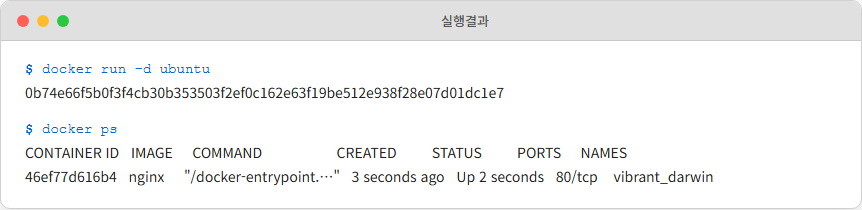
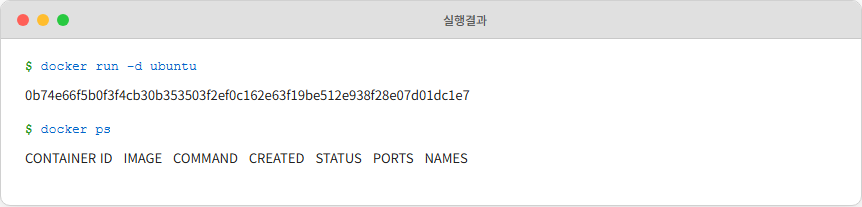
챕터 2 검수

diff --git a/projects/특이점이-온-개발자-도커-쿠버네티스/assets/CH02/chap01-33.html b/projects/특이점이-온-개발자-도커-쿠버네티스/assets/CH02/chap01-33.html
@@ -1,0 +1,84 @@
+<!DOCTYPE html>
+<html>
+<head>
+<meta charset="utf-8">
+<style>
+  @import url('https://fonts.googleapis.com/css2?family=Noto+Sans+KR:wght@400;500&display=swap');
+  html, body { margin: 0; padding: 0; background: transparent; height: auto; }
+  body {
+    padding: 20px;
+    display: inline-block;
+    width: 100%;
+    box-sizing: border-box;
+    font-family: 'Noto Sans KR', 'Apple SD Gothic Neo', 'Malgun Gothic', 'Menlo', 'Monaco', 'Courier New', monospace;
+  }
+  .terminal {
+    width: 860px;
+    margin: 0 auto;
+    border-radius: 10px;
+    overflow: hidden;
+    box-shadow: 0 4px 20px rgba(0,0,0,0.15);
+    border: 1px solid #d0d0d0;
+    background: #ffffff;
+  }
+  .titlebar {
+    background: #e0e0e0;
+    padding: 10px 16px;
+    display: flex;
+    align-items: center;
+    gap: 8px;
+    border-bottom: 1px solid #c8c8c8;
+  }
+  .dot { width: 12px; height: 12px; border-radius: 50%; }
+  .dot.red { background: #ff5f57; }
+  .dot.yellow { background: #ffbd2e; }
+  .dot.green { background: #28c940; }
+  .title {
+    color: #555;
+    font-size: 12px;
+    margin-left: 8px;
+    flex: 1;
+    text-align: center;
+    font-weight: 500;
+  }
+  .body { padding: 20px 24px; }
+  .prompt {
+    color: #0066cc;
+    font-size: 13px;
+    margin-bottom: 10px;
+    word-break: break-all;
+    font-family: 'Menlo', 'Monaco', 'Courier New', monospace;
+  }
+  .prompt::before {
+    content: '$ ';
+    color: #2a9d2a;
+    font-weight: bold;
+  }
+  .output {
+    color: #222222;
+    font-size: 13px;
+    line-height: 1.7;
+    white-space: pre-wrap;
+    word-break: break-all;
+    font-family: 'Noto Sans KR', 'Apple SD Gothic Neo', 'Malgun Gothic', 'Menlo', 'Monaco', 'Courier New', monospace;
+    margin-bottom: 16px;
+  }
+</style>
+</head>
+<body>
+<div class="terminal">
+  <div class="titlebar">
+    <div class="dot red"></div>
+    <div class="dot yellow"></div>
+    <div class="dot green"></div>
+    <div class="title">실행결과</div>
+  </div>
+  <div class="body">
+    <div class="prompt">docker run -d ubuntu</div>
+    <div class="output">0b74e66f5b0f3f4cb30b353503f2ef0c162e63f19be512e938f28e07d01dc1e7</div>
+    <div class="prompt">docker ps</div>
+    <div class="output">CONTAINER ID   IMAGE   COMMAND   CREATED   STATUS   PORTS   NAMES</div>
+  </div>
+</div>
+</body>
+</html>

diff --git a/projects/특이점이-온-개발자-도커-쿠버네티스/assets/CH02/chap01-68.html b/projects/특이점이-온-개발자-도커-쿠버네티스/assets/CH02/chap01-68.html
@@ -1,0 +1,85 @@
+<!DOCTYPE html>
+<html>
+<head>
+<meta charset="utf-8">
+<style>
+  @import url('https://fonts.googleapis.com/css2?family=Noto+Sans+KR:wght@400;500&display=swap');
+  html, body { margin: 0; padding: 0; background: transparent; height: auto; }
+  body {
+    padding: 20px;
+    display: inline-block;
+    width: 100%;
+    box-sizing: border-box;
+    font-family: 'Noto Sans KR', 'Apple SD Gothic Neo', 'Malgun Gothic', 'Menlo', 'Monaco', 'Courier New', monospace;
+  }
+  .terminal {
+    width: 860px;
+    margin: 0 auto;
+    border-radius: 10px;
+    overflow: hidden;
+    box-shadow: 0 4px 20px rgba(0,0,0,0.15);
+    border: 1px solid #d0d0d0;
+    background: #ffffff;
+  }
+  .titlebar {
+    background: #e0e0e0;
+    padding: 10px 16px;
+    display: flex;
+    align-items: center;
+    gap: 8px;
+    border-bottom: 1px solid #c8c8c8;
+  }
+  .dot { width: 12px; height: 12px; border-radius: 50%; }
+  .dot.red { background: #ff5f57; }
+  .dot.yellow { background: #ffbd2e; }
+  .dot.green { background: #28c940; }
+  .title {
+    color: #555;
+    font-size: 12px;
+    margin-left: 8px;
+    flex: 1;
+    text-align: center;
+    font-weight: 500;
+  }
+  .body { padding: 20px 24px; }
+  .prompt {
+    color: #0066cc;
+    font-size: 13px;
+    margin-bottom: 10px;
+    word-break: break-all;
+    font-family: 'Menlo', 'Monaco', 'Courier New', monospace;
+  }
+  .prompt::before {
+    content: '$ ';
+    color: #2a9d2a;
+    font-weight: bold;
+  }
+  .output {
+    color: #222222;
+    font-size: 13px;
+    line-height: 1.7;
+    white-space: pre;
+    word-break: normal;
+    font-family: 'Menlo', 'Monaco', 'Courier New', monospace;
+    margin-bottom: 16px;
+    overflow-x: auto;
+  }
+</style>
+</head>
+<body>
+<div class="terminal">
+  <div class="titlebar">
+    <div class="dot red"></div>
+    <div class="dot yellow"></div>
+    <div class="dot green"></div>
+    <div class="title">실행결과</div>
+  </div>
+  <div class="body">
+    <div class="prompt">docker images</div>
+<div class="output">REPOSITORY              TAG       IMAGE ID       CREATED          SIZE
+coderyu5523/tomcat      latest    0f8181585ca9   12 seconds ago   489MB
+tomcat                  latest    f1e6c9d4a7b8   2 weeks ago      489MB</div>
+  </div>
+</div>
+</body>
+</html>
